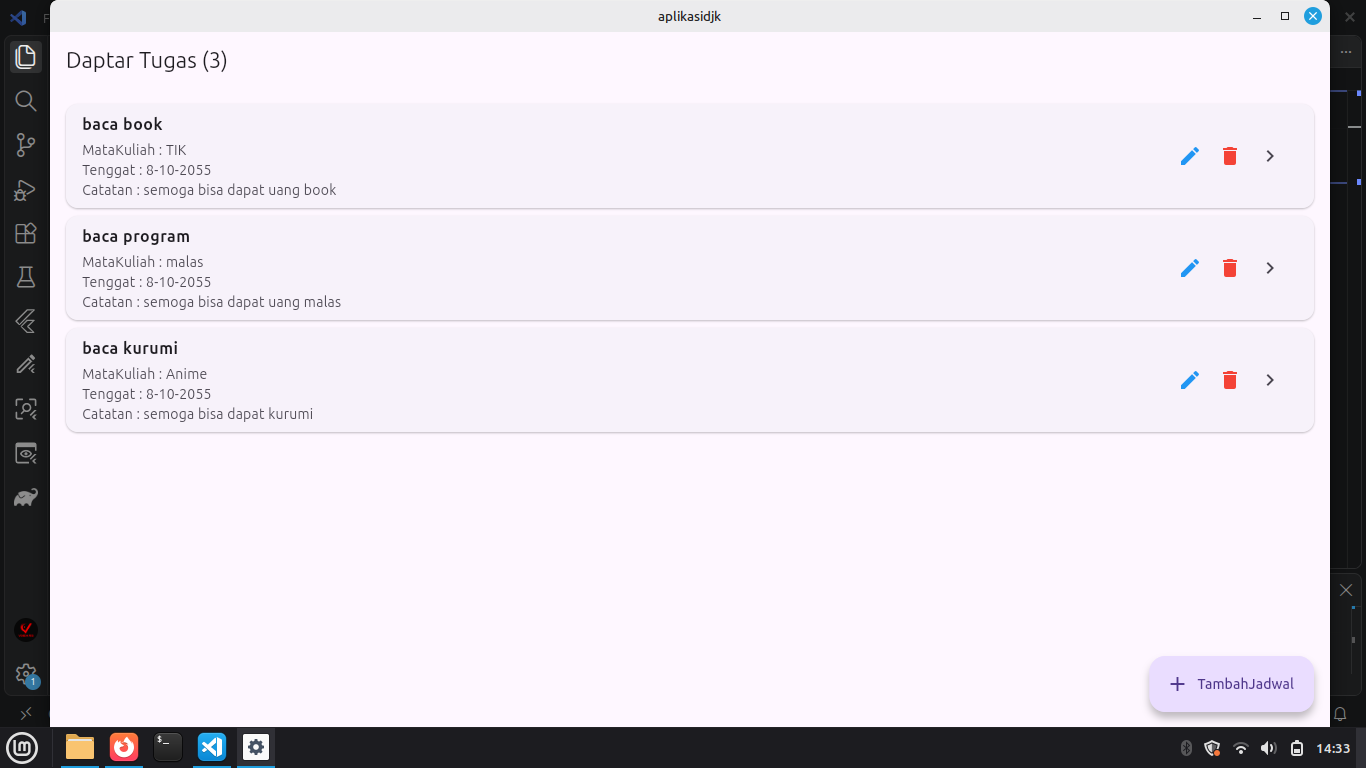
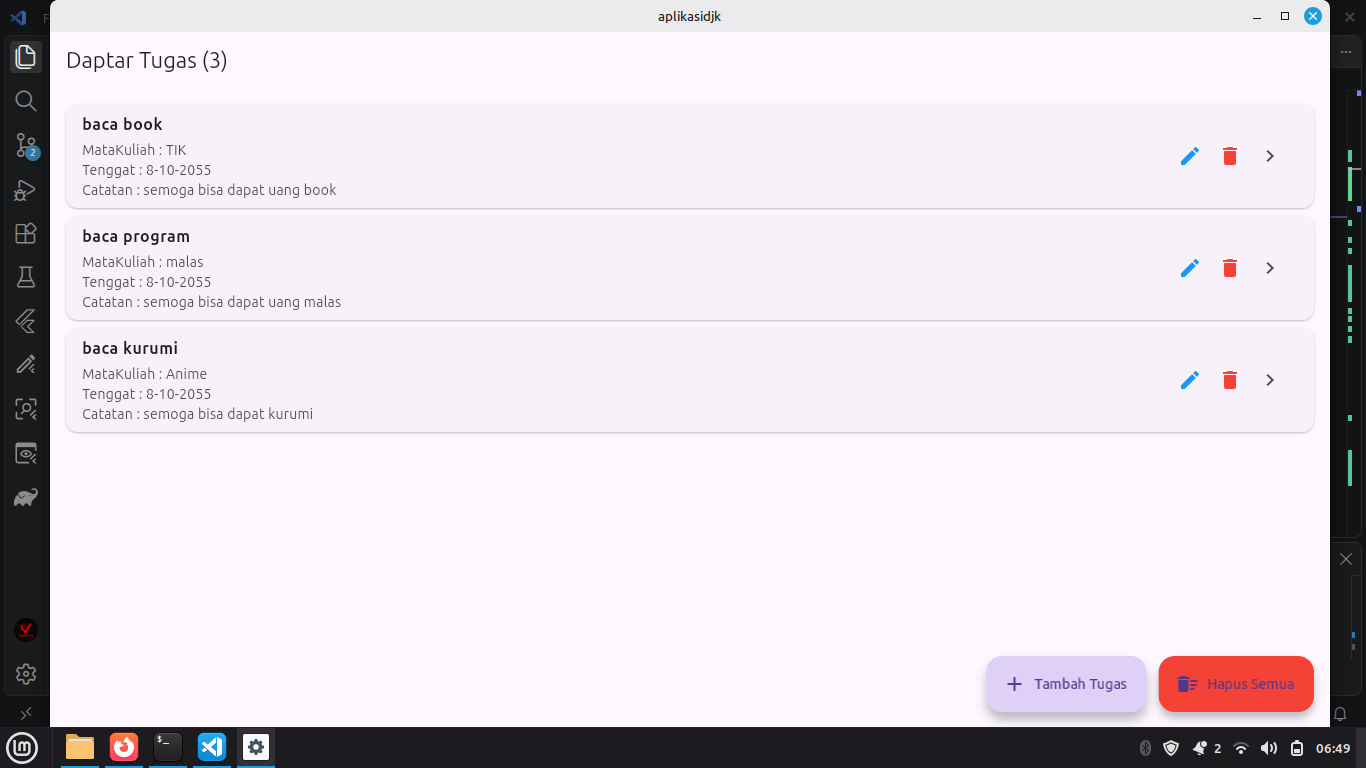
Aplikasi_DJK_Aris_R

diff --git a/lib/Daptartugas.dart b/lib/Daptartugas.dart
@@ -32,14 +32,32 @@ class DaptartugasState extends State<Daptartugas> {
       catatan: 'semoga bisa dapat kurumi',
     ),
   ];
-  Future<void> bukaFromTambah() async {
+  Future<void> bukaFormTambah() async {
     final hasil = await Navigator.push<KumpulanTugas>(
       context,
-      MaterialPageRoute(builder: (_) => Formtambahtugas()),
+      MaterialPageRoute(builder: (_) => Formtambahtugas(awal: null)),
     );
     if (hasil != null) {
       setState(() {
         data.add(hasil);
+        ScaffoldMessenger.of(context).showSnackBar(
+          const SnackBar(content: Text('Tugas sudah di tambahkan!')),
+        );
+      });
+    }
+  }
+
+  Future<void> bukaFormEdit(int index) async {
+    final hasil = await Navigator.push<KumpulanTugas>(
+      context,
+      MaterialPageRoute(builder: (_) => Formtambahtugas(awal: data[index])),
+    );
+    if (hasil != null) {
+      setState(() {
+        data[index] = hasil;
+        ScaffoldMessenger.of(
+          context,
+        ).showSnackBar(const SnackBar(content: Text('Tugas sudah di edit!')));
       });
     }
   }
@@ -51,8 +69,8 @@ class DaptartugasState extends State<Daptartugas> {
     );
   }
 
-  void hapus(int index) {
-    showDialog(
+  Future<void> hapus(int index) async {
+    final yakin = await showDialog<bool>(
       context: context,
       builder: (BuildContext context) {
         return AlertDialog(
@@ -61,16 +79,13 @@ class DaptartugasState extends State<Daptartugas> {
           actions: [
             TextButton(
               onPressed: () {
-                Navigator.of(context).pop();
+                Navigator.pop(context, false);
               },
               child: Text("Batal"),
             ),
             TextButton(
               onPressed: () {
-                setState(() {
-                  data.removeAt(index);
-                });
-                Navigator.of(context).pop();
+                Navigator.pop(context, true);
               },
               child: Text("hapus", style: TextStyle(color: Colors.red)),
             ),
@@ -78,74 +93,53 @@ class DaptartugasState extends State<Daptartugas> {
         );
       },
     );
+    if (yakin == true && mounted) {
+      setState(() {
+        data.removeAt(index);
+        ScaffoldMessenger.of(
+          context,
+        ).showSnackBar(const SnackBar(content: Text('Tugas sudah dihapus!')));
+      });
+    }
   }
 
-  void editDialog(int index) {
-    final indexTugas = data[index];
-    TextEditingController judulController = TextEditingController(
-      text: indexTugas.judul,
-    );
-    TextEditingController mataKuliahController = TextEditingController(
-      text: indexTugas.mataKuliah,
-    );
-    TextEditingController tenggatController = TextEditingController(
-      text: indexTugas.tenggat,
-    );
-    TextEditingController catatanController = TextEditingController(
-      text: indexTugas.catatan,
-    );
+  void hapusSemua() {
+    if (data.isEmpty) {
+      ScaffoldMessenger.of(context).showSnackBar(
+        const SnackBar(
+          content: Text('Tugas sudah kosong, tidak ada yang bisa dihapus!'),
+        ),
+      );
+      return;
+    }
+
     showDialog(
       context: context,
       builder: (BuildContext context) {
         return AlertDialog(
-          title: Text("kompirmasi edit"),
-          content: SingleChildScrollView(
-            child: Column(
-              mainAxisSize: MainAxisSize.min,
-              children: [
-                TextField(
-                  controller: judulController,
-                  decoration: InputDecoration(labelText: "Judul Tugas"),
-                ),
-                SizedBox(height: 8),
-                TextField(
-                  controller: mataKuliahController,
-                  decoration: InputDecoration(labelText: "Mata Kuliah"),
-                ),
-                SizedBox(height: 8),
-                TextField(
-                  controller: tenggatController,
-                  decoration: InputDecoration(labelText: "Tenggat Waktu"),
-                ),
-                SizedBox(height: 8),
-                TextField(
-                  controller: catatanController,
-                  decoration: InputDecoration(labelText: "Catatan"),
-                  maxLines: 2,
-                ),
-              ],
-            ),
-          ),
+          title: const Text("Konfirmasi Hapus Semua"),
+          content: const Text("Yakin ingin menghapus seluruh daftar tugas? "),
           actions: [
             TextButton(
-              onPressed: () {
-                Navigator.of(context).pop();
-              },
-              child: Text("batal edit"),
+              onPressed: () => Navigator.of(context).pop(),
+              child: const Text("Batal"),
             ),
             TextButton(
               onPressed: () {
                 setState(() {
-                  data[index] = KumpulanTugas(
-                    judul: judulController.text,
-                    mataKuliah: mataKuliahController.text,
-                    tenggat: tenggatController.text,
-                    catatan: catatanController.text,
+                  data.clear();
+                  ScaffoldMessenger.of(context).showSnackBar(
+                    const SnackBar(
+                      content: Text('Tugas sudah di hapus semua!'),
+                    ),
                   );
                 });
                 Navigator.of(context).pop();
               },
-              child: Text("ubah data"),
+              child: const Text(
+                "Hapus Semua",
+                style: TextStyle(color: Colors.red),
+              ),
             ),
           ],
         );
@@ -186,7 +180,7 @@ class DaptartugasState extends State<Daptartugas> {
                       children: [
                         IconButton(
                           icon: Icon(Icons.edit, color: Colors.blue),
-                          onPressed: () => editDialog(index),
+                          onPressed: () => bukaFormEdit(index),
                         ),
                         IconButton(
                           icon: Icon(Icons.delete, color: Colors.red),
@@ -204,10 +198,25 @@ class DaptartugasState extends State<Daptartugas> {
                 );
               },
             ),
-      floatingActionButton: FloatingActionButton.extended(
-        onPressed: bukaFromTambah,
-        icon: Icon(Icons.add),
-        label: Text('TambahJadwal'),
+      floatingActionButton: Row(
+        mainAxisAlignment: MainAxisAlignment.end,
+        children: [
+          // Tombol Tambah Tugas
+          FloatingActionButton.extended(
+            onPressed: bukaFormTambah,
+            icon: Icon(Icons.add),
+            label: Text('Tambah Tugas'),
+          ),
+
+          SizedBox(width: 12),
+          // Tombol Hapus Semua
+          FloatingActionButton.extended(
+            onPressed: hapusSemua,
+            icon: Icon(Icons.delete_sweep),
+            label: Text('Hapus Semua'),
+            backgroundColor: Colors.red,
+          ),
+        ],
       ),
     );
   }

diff --git a/lib/FormTambahTugas.dart b/lib/FormTambahTugas.dart
@@ -3,7 +3,9 @@ import 'package:flutter/material.dart';
 import 'KumpulanTugas.dart';
 
 class Formtambahtugas extends StatefulWidget {
-  const Formtambahtugas({super.key});
+  final KumpulanTugas? awal;
+
+  const Formtambahtugas({super.key, this.awal});
 
   @override
   State<Formtambahtugas> createState() => FormtambahtugasState();
@@ -11,10 +13,25 @@ class Formtambahtugas extends StatefulWidget {
 
 class FormtambahtugasState extends State<Formtambahtugas> {
   final formKey = GlobalKey<FormState>();
-  final judulText = TextEditingController();
-  final mataKuliahText = TextEditingController();
-  final tenggatText = TextEditingController();
-  final catatanText = TextEditingController();
+
+  late final TextEditingController judulText;
+  late final TextEditingController mataKuliahText;
+  late final TextEditingController tenggatText;
+  late final TextEditingController catatanText;
+
+  bool get modeEdit => widget.awal != null;
+
+  @override
+  void initState() {
+    super.initState();
+    final awal = widget.awal;
+
+    judulText = TextEditingController(text: awal?.judul ?? '');
+    mataKuliahText = TextEditingController(text: awal?.mataKuliah ?? '');
+    tenggatText = TextEditingController(text: awal?.tenggat ?? '');
+    catatanText = TextEditingController(text: awal?.catatan ?? '');
+  }
+
   @override
   void dispose() {
     judulText.dispose();
@@ -26,6 +43,7 @@ class FormtambahtugasState extends State<Formtambahtugas> {
 
   void simpan() {
     if (!formKey.currentState!.validate()) return;
+
     final baru = KumpulanTugas(
       judul: judulText.text.trim(),
       mataKuliah: mataKuliahText.text.trim(),
@@ -38,12 +56,12 @@ class FormtambahtugasState extends State<Formtambahtugas> {
   @override
   Widget build(BuildContext context) {
     return Scaffold(
-      appBar: AppBar(title: Text('Tambah Tugas')),
+      appBar: AppBar(title: Text(modeEdit ? 'Edit Tugas' : 'Tambah Tugas')),
       body: Padding(
         padding: EdgeInsets.all(16),
         child: Form(
           key: formKey,
-          child: Column(
+          child: ListView(
             children: [
               TextFormField(
                 controller: judulText,
@@ -65,9 +83,10 @@ class FormtambahtugasState extends State<Formtambahtugas> {
               SizedBox(height: 16),
               TextFormField(
                 controller: mataKuliahText,
+                readOnly: modeEdit,
                 keyboardType: TextInputType.text,
                 decoration: InputDecoration(
-                  labelText: 'matakuliah',
+                  labelText: 'Mata Kuliah',
                   border: OutlineInputBorder(),
                 ),
                 validator: (value) {
@@ -82,7 +101,7 @@ class FormtambahtugasState extends State<Formtambahtugas> {
                 controller: tenggatText,
                 keyboardType: TextInputType.datetime,
                 decoration: InputDecoration(
-                  labelText: 'waktu tenggat',
+                  labelText: 'Waktu Tenggat',
                   border: OutlineInputBorder(),
                 ),
                 validator: (value) {
@@ -96,16 +115,20 @@ class FormtambahtugasState extends State<Formtambahtugas> {
               TextFormField(
                 controller: catatanText,
                 keyboardType: TextInputType.text,
+                maxLines: 3,
                 decoration: InputDecoration(
-                  labelText: 'catatan Tugas',
+                  labelText: 'Catatan Tugas',
                   border: OutlineInputBorder(),
                 ),
               ),
-              SizedBox(height: 16),
+              SizedBox(height: 24),
               SizedBox(
                 width: double.infinity,
                 height: 48,
-                child: FilledButton(onPressed: simpan, child: Text('simpan')),
+                child: FilledButton(
+                  onPressed: simpan,
+                  child: Text(modeEdit ? 'Simpan Perubahan' : 'Simpan'),
+                ),
               ),
             ],
           ),

diff --git a/README.md b/README.md
@@ -16,30 +16,54 @@
 
 ![Detail Proyek](screenshots/2.png)
 
+### Halaman Tamabah ketika kita tidak masukan data apa pun kecuali catatan karena bisa kosong isi nya
+
+![Detail Proyek](screenshots/12.png)
+
 ### Halaman setelah Tambah jadwal
 
 ![Daftar Proyek](screenshots/3.png)
 
-### Halaman Detail jadwal
+### Halaman setelah kita klik icon edit jadwal
+
+![Daftar Proyek](screenshots/4.png)
+
+### Halaman Beranda ketika kita tidak jadi edit data nya
 
 ![Detail Proyek](screenshots/5.png)
 
-### Halaman Ketika kita klik icon delete jadwal
+### Halaman Ketika kita melakukan edit dan untuk kolom mata kuliah itu tidak bisa di edit
 
 ![Detail Proyek](screenshots/6.png)
 
-### Halaman setelah kita klik button delete jadwal
+### Halaman setelah kita klik komfirmasi edit jadwal
 
 ![Detail Proyek](screenshots/7.png)
 
-### Halaman setelah kita klik icon edit jadwal
+### Halaman edit ketika kita kosongkan kecuali bagian mata kuliah yang tidak bisa di edit dan catatan yang isi nya bisa kosong
 
 ![Detail Proyek](screenshots/8.png)
 
-### Halaman setelah kita klik button edit jadwal
+### Halaman setelah kita klik icon delete jadwal
 
 ![Detail Proyek](screenshots/9.png)
 
-### Tambahan kehidupan sehari hari
+### Halaman setelah kita delete 1 jadwal
 
 ![Detail Proyek](screenshots/10.png)
+
+### Halaman detail jadwal
+
+![Detail Proyek](screenshots/11.png)
+
+### Halaman setelah kita klik icon delete jadwal semua
+
+![Detail Proyek](screenshots/13.png)
+
+### Halaman setelah kita delete jadwal semua
+
+![Detail Proyek](screenshots/14.png)
+
+### Halaman setelah kita klik icon delete jadwal tapi data list nya tidak ada
+
+![Detail Proyek](screenshots/15.png)
